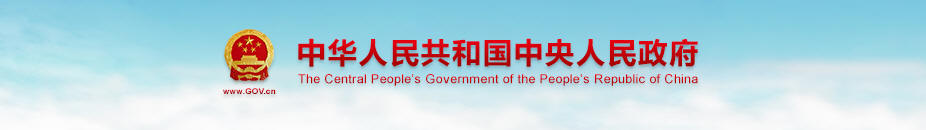
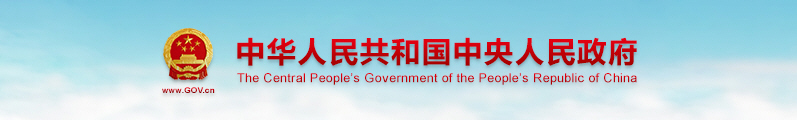
www.fangjia2016.com

diff --git a/index.html b/index.html
@@ -20,7 +20,8 @@
   <!-- <h3>正在智能计算最佳站点, 最迟<font color=red>3秒</font>后自动进入, 请稍等...</h3> -->
   <!-- <img src="http://file.bmob.cn/M02/D3/AF/oYYBAFZg902AOSTQAAB8O2LmY7Y072.jpg" alt="fangjia2016.com"><br> -->
 
-
+<a href="http://www.gov.cn" target=_blank><img src="res/gov.jpg" alt="fangjia2016.com"></a>
+<br>
 
 <table>
 	<tr>
